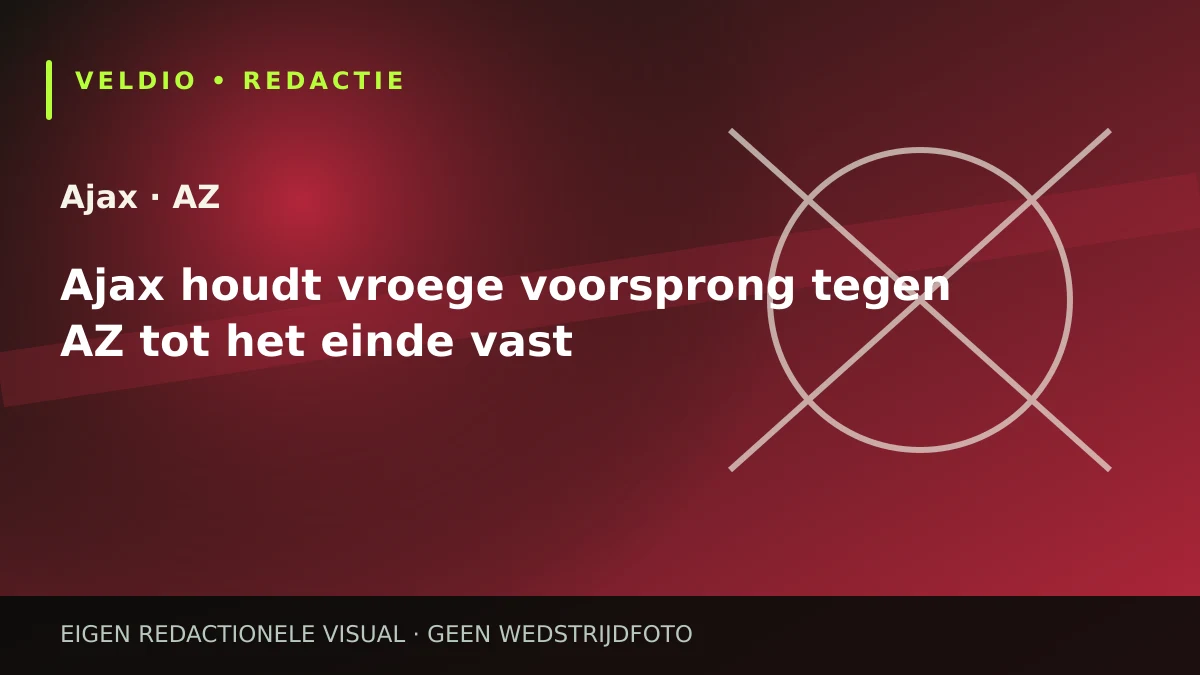
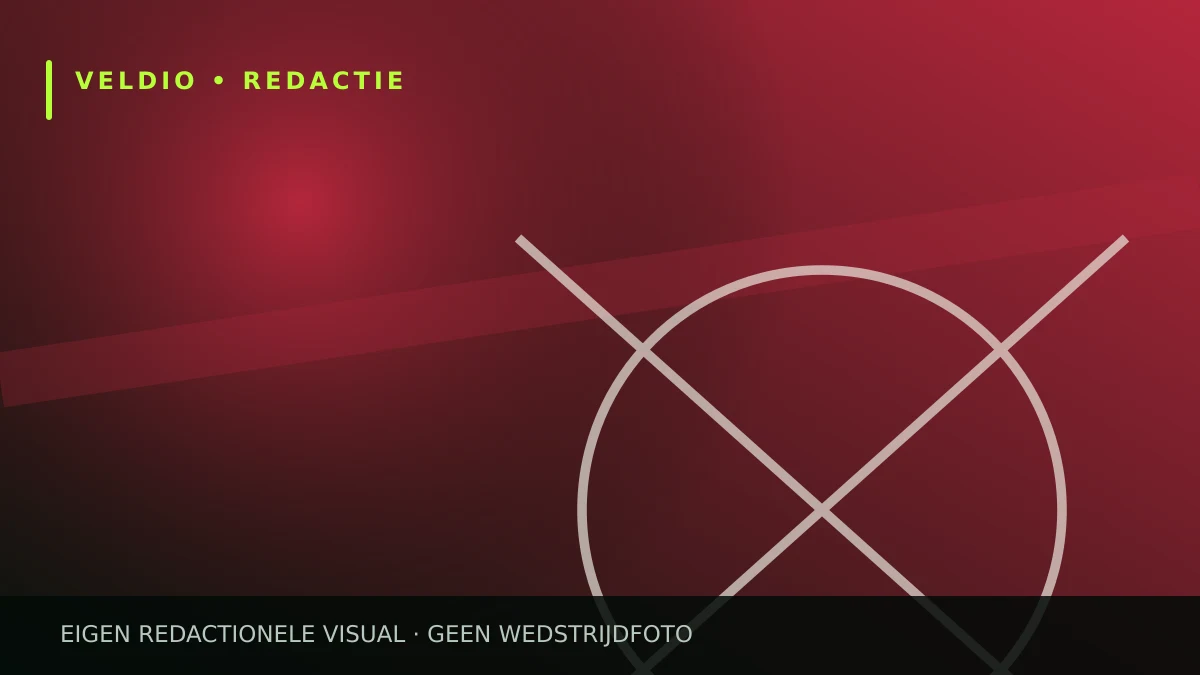
Fase39: voorkom dubbele koptekst op nieuwsbeelden en verduidelijk stadionillustraties

diff --git a/android-ui/assets/image-registry39.js b/android-ui/assets/image-registry39.js
@@ -1,1 +1,1 @@
[2 lines of base64/hex data omitted]

diff --git a/android-ui/assets/home-features.html b/android-ui/assets/home-features.html
@@ -64,7 +64,7 @@ function render(){
  const imageSession=VeldioImages39.session();slides=recent.map((a,i)=>({key:'news-'+a.id,kind:'news-slide',action:'article',id:a.id,badge:i===0?'NIEUWSTE ARTIKEL':'UITGELICHT',title:esc(a.headline),meta:esc(a.standfirst||date(a.publishedAt,{day:'numeric',month:'short'})),cover:imageSession.claim(a)&&['cleared','licensed'].includes(a.imageRights)?image(a.imageUrl):'editorial-fallback.svg',context:a.imageReview?.contextOnly===true,generated:a.imageReview?.generated===true}));
  if(!slides.length)slides=[{key:'column',kind:'column-slide',action:'column',badge:'COLUMN',title:'DE DERDE<span>HELFT</span>',meta:'Door Sander Brink · Een eigen kijk op voetbal.',cover:'column-portrait.webp'}];
  index=Math.min(index,slides.length-1);
- $('slides').innerHTML=slides.map((s,i)=>'<article class="slide '+s.kind+(i===index?' active':'')+'" aria-hidden="'+(i!==index)+'">'+(s.cover?'<img class="cover '+(s.key==='column'?'column-cover':'')+'" alt="" src="'+s.cover+'" onerror="this.onerror=null;this.src=\'editorial-fallback.svg\'">':'')+'<div class="shade"></div>'+(s.context?'<span class="image-note">'+(s.generated?'AI-illustratie':'Archiefbeeld')+'</span>':'')+'<button class="slide-link" data-action="'+s.action+'" data-id="'+esc(s.id||'')+'" tabindex="'+(i===index?'0':'-1')+'" '+(s.action==='none'?'disabled':'')+'><span class="badge">'+s.badge+'</span>'+(s.logos||'')+'<h1>'+s.title+'</h1><span class="meta">'+s.meta+'</span></button></article>').join('');
+ $('slides').innerHTML=slides.map((s,i)=>'<article class="slide '+s.kind+(i===index?' active':'')+'" aria-hidden="'+(i!==index)+'">'+(s.cover?'<img class="cover '+(s.key==='column'?'column-cover':'')+'" alt="" src="'+s.cover+'" onerror="this.onerror=null;this.src=\'editorial-fallback.svg\'">':'')+'<div class="shade"></div>'+(s.context?'<span class="image-note">'+(s.generated?'AI-illustratie':'Redactionele illustratie')+'</span>':'')+'<button class="slide-link" data-action="'+s.action+'" data-id="'+esc(s.id||'')+'" tabindex="'+(i===index?'0':'-1')+'" '+(s.action==='none'?'disabled':'')+'><span class="badge">'+s.badge+'</span>'+(s.logos||'')+'<h1>'+s.title+'</h1><span class="meta">'+s.meta+'</span></button></article>').join('');
  $('dots').innerHTML=slides.map((s,i)=>'<button class="dot" aria-label="'+s.badge+'" aria-current="'+(i===index)+'" data-slide="'+i+'"></button>').join('');
  const card=$('matchCard');card.disabled=false;card.classList.toggle('spotlight-card',!m);
  if(m){card.dataset.action='match';card.dataset.id=m.publicationId||String(m.fixtureId||'');card.innerHTML='<span class="mini-label">WEDSTRIJD VAN DE WEEK</span>'+(HomeModel.stadiumImage(m)?'<img class="cover" alt="" src="'+image(HomeModel.stadiumImage(m))+'">':'')+'<div>'+matchCopy(m)+'</div><span class="match-action">'+(m.phase==='report'?'Lees het wedstrijdverslag':m.phase==='live'?'Bekijk wedstrijdinformatie':'Bekijk de voorbeschouwing')+'　→</span>';}

diff --git a/android-ui/assets/stadium-view.js b/android-ui/assets/stadium-view.js
@@ -8,7 +8,7 @@ function photo(p){return '<figure><img src="veldio-arena.webp" alt="AI-sfeerillu
 function renderStadium(){
  const a=archive.articles.find(a=>a.id===selected),root=document.getElementById('content');
  document.getElementById('archive').hidden=!a;
- if(!a){root.innerHTML='<div class="eyebrow">VELDIO · EIGEN RUBRIEK</div><h1>Stadion van de week</h1><p class="intro">De verhalen achter het stadion.</p><p class="note">Eerst Nederland, daarna de wereld. Een nieuw portret verschijnt alleen na bron- en beeldcontrole.</p>'+archive.articles.map(a=>'<button class="archive-card" data-id="'+esc(a.id)+'"><img src="'+image(a.image)+'" alt="'+'AI-sfeerillustratie, fictief stadion'+'"><div class="archive-copy"><div class="eyebrow">'+esc(a.club)+' · STADIONPORTRET</div><h2>'+esc(a.headline)+'</h2><span>Lees het portret →</span></div></button>').join('');return;}
+ if(!a){root.innerHTML='<div class="eyebrow">VELDIO · EIGEN RUBRIEK</div><h1>Stadion van de week</h1><p class="intro">De verhalen achter het stadion.</p><p class="note">Eerst Nederland, daarna de wereld. Een nieuw portret verschijnt alleen na bron- en beeldcontrole.</p>'+archive.articles.map(a=>'<button class="archive-card" data-id="'+esc(a.id)+'"><img src="'+image(a.image)+'" alt="'+'AI-sfeerillustratie, fictief stadion'+'"><div class="archive-copy"><div class="eyebrow">'+esc(a.club)+' · STADIONPORTRET</div><h2>'+esc(a.headline)+'</h2><span>Lees het portret →</span><p class="note">AI-sfeerillustratie · fictief stadion</p></div></button>').join('');return;}
  root.innerHTML='<article><div class="eyebrow">STADION VAN DE WEEK · '+esc(a.club)+'</div><h1>'+esc(a.headline)+'</h1><p class="intro">'+esc(a.standfirst)+'</p><p class="meta">'+esc(a.author)+' · '+a.wordCount+' woorden · Broncontrole '+esc(a.reviewedAt)+'</p>'+photo(a.image)+a.sections.map((s,i)=>'<h2>'+esc(s.heading)+'</h2><p>'+esc(s.text)+refs(s.sources)+'</p>'+(i===5&&a.gallery?.length?photo(a.gallery[0]):'')).join('')+'<div class="facts"><h2>Zes weetjes om mee te nemen</h2><ul>'+a.trivia.map(f=>'<li>'+esc(f.text)+refs(f.sources)+'</li>').join('')+'</ul></div><h2>Bronnen en verantwoording</h2><p class="note">Origineel Veldio-portret. Eigen AI-sfeerillustraties van een fictief stadion, geen foto’s van de beschreven locaties. Toekomstplannen zijn als plannen beschreven.</p><ol class="sources">'+a.sources.map(s=>'<li><a href="'+href(s.url)+'">'+esc(s.name)+'</a></li>').join('')+'</ol><button id="readArchive">Bekijk het stadionarchief →</button></article>';
  document.getElementById('readArchive').onclick=()=>showStadium('');
 }
